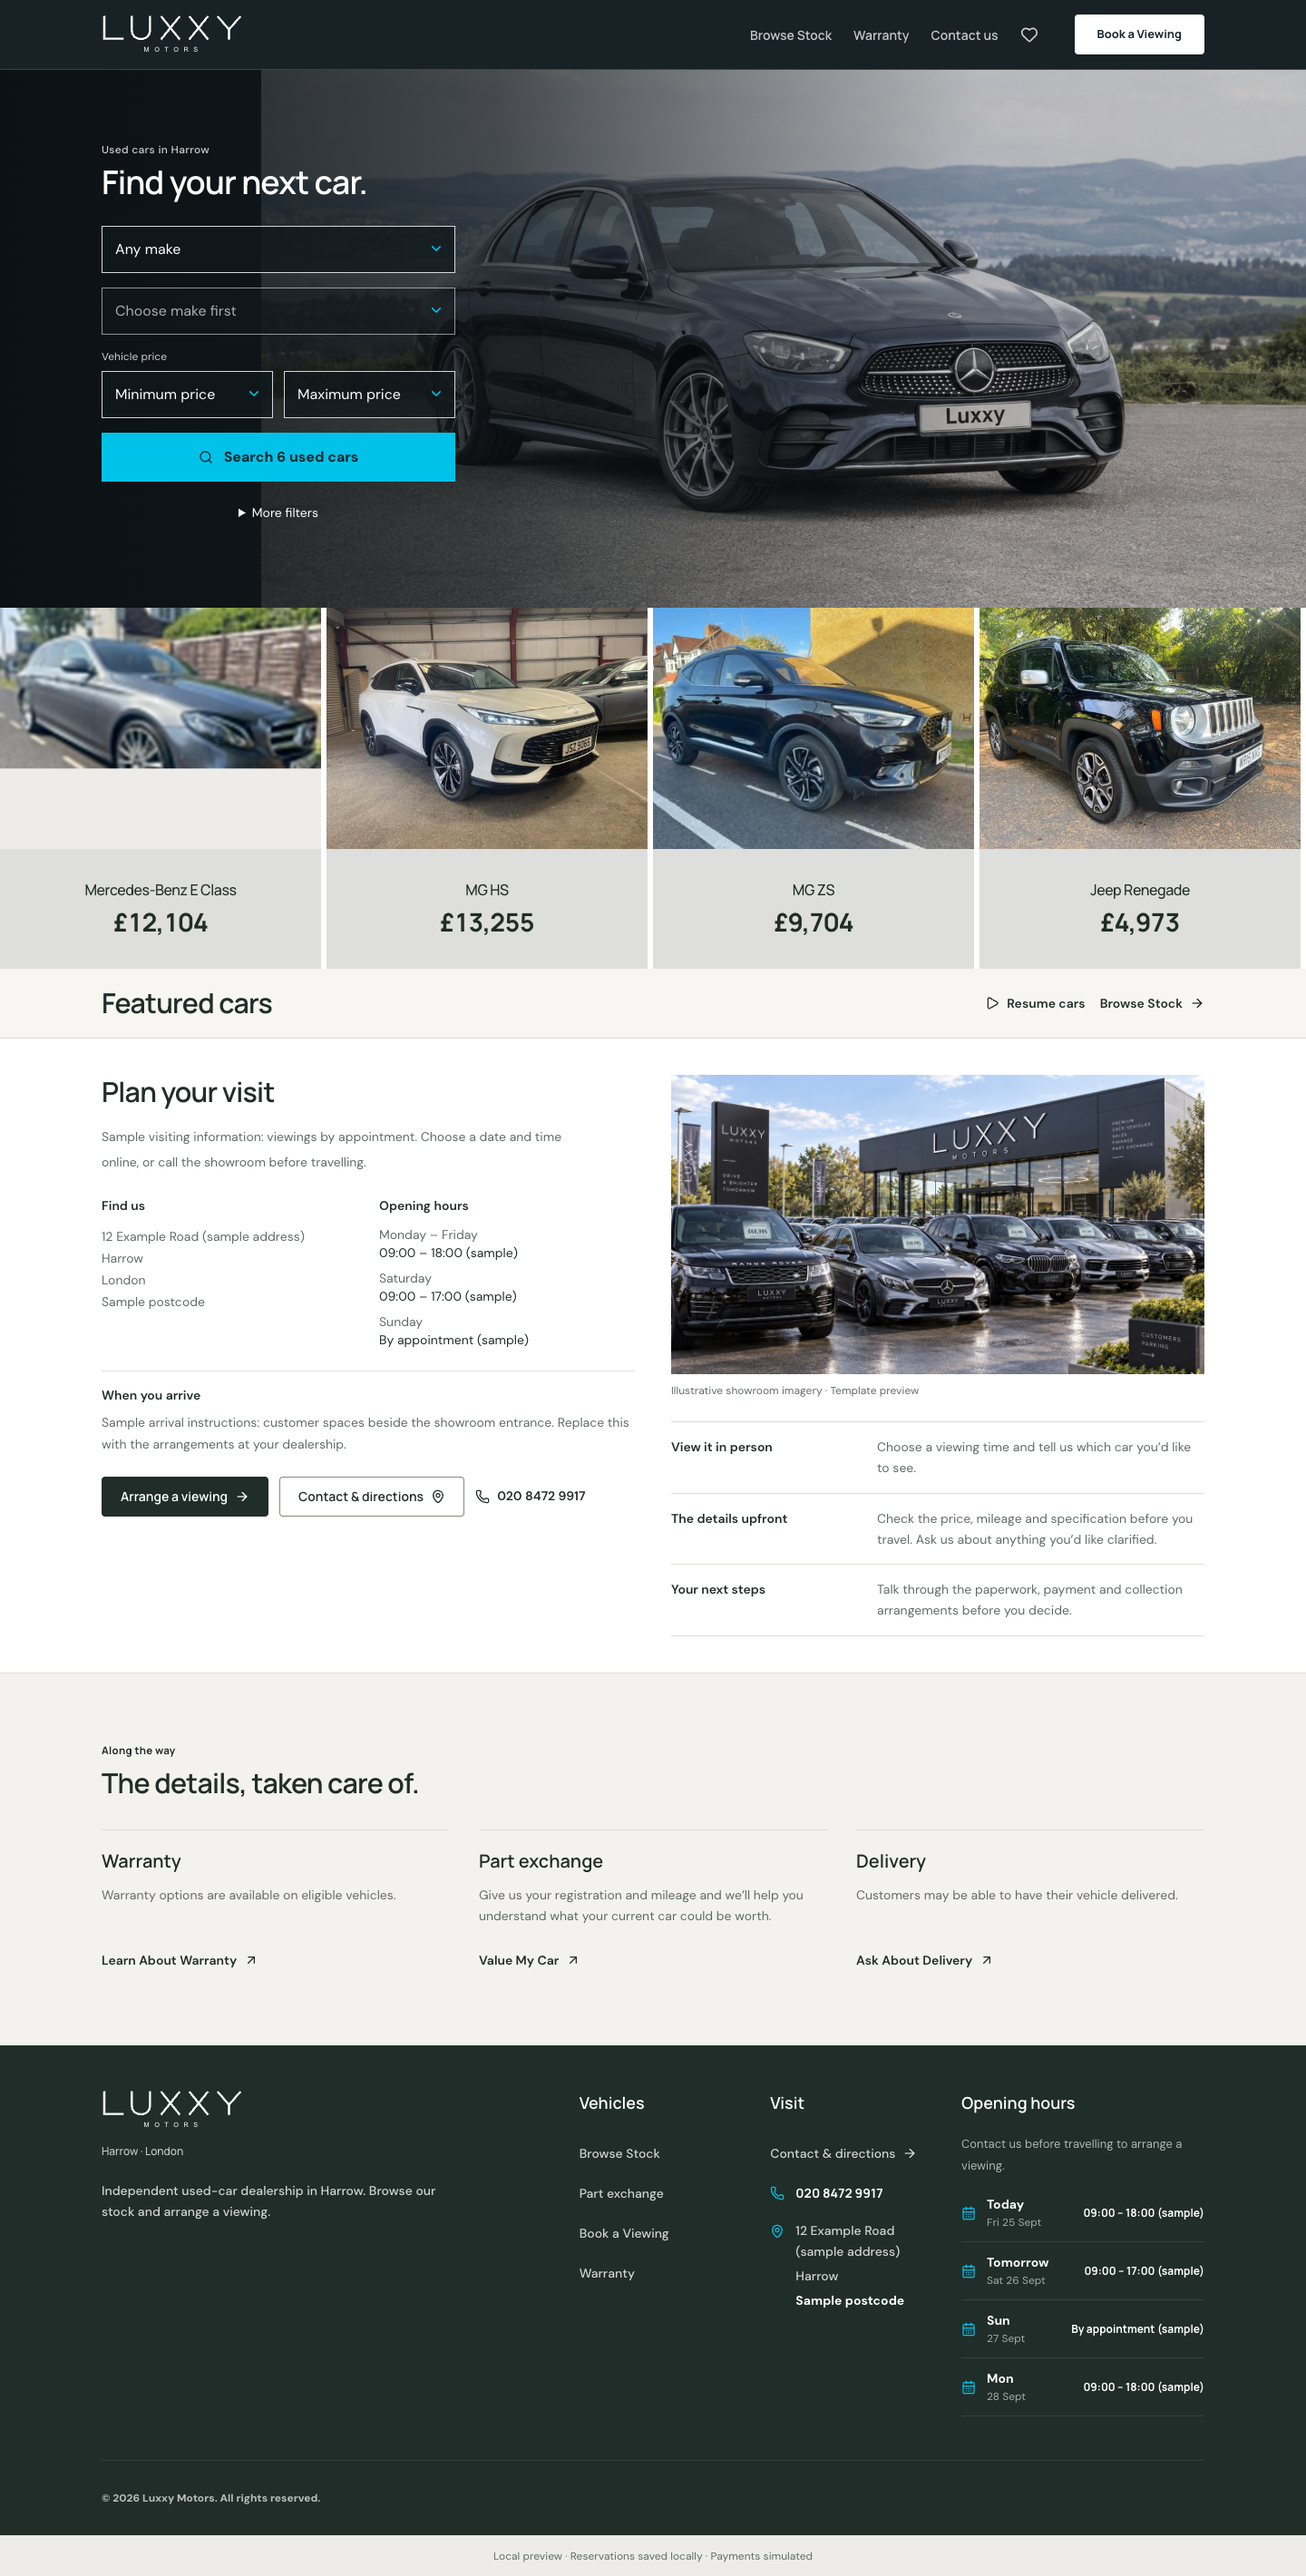
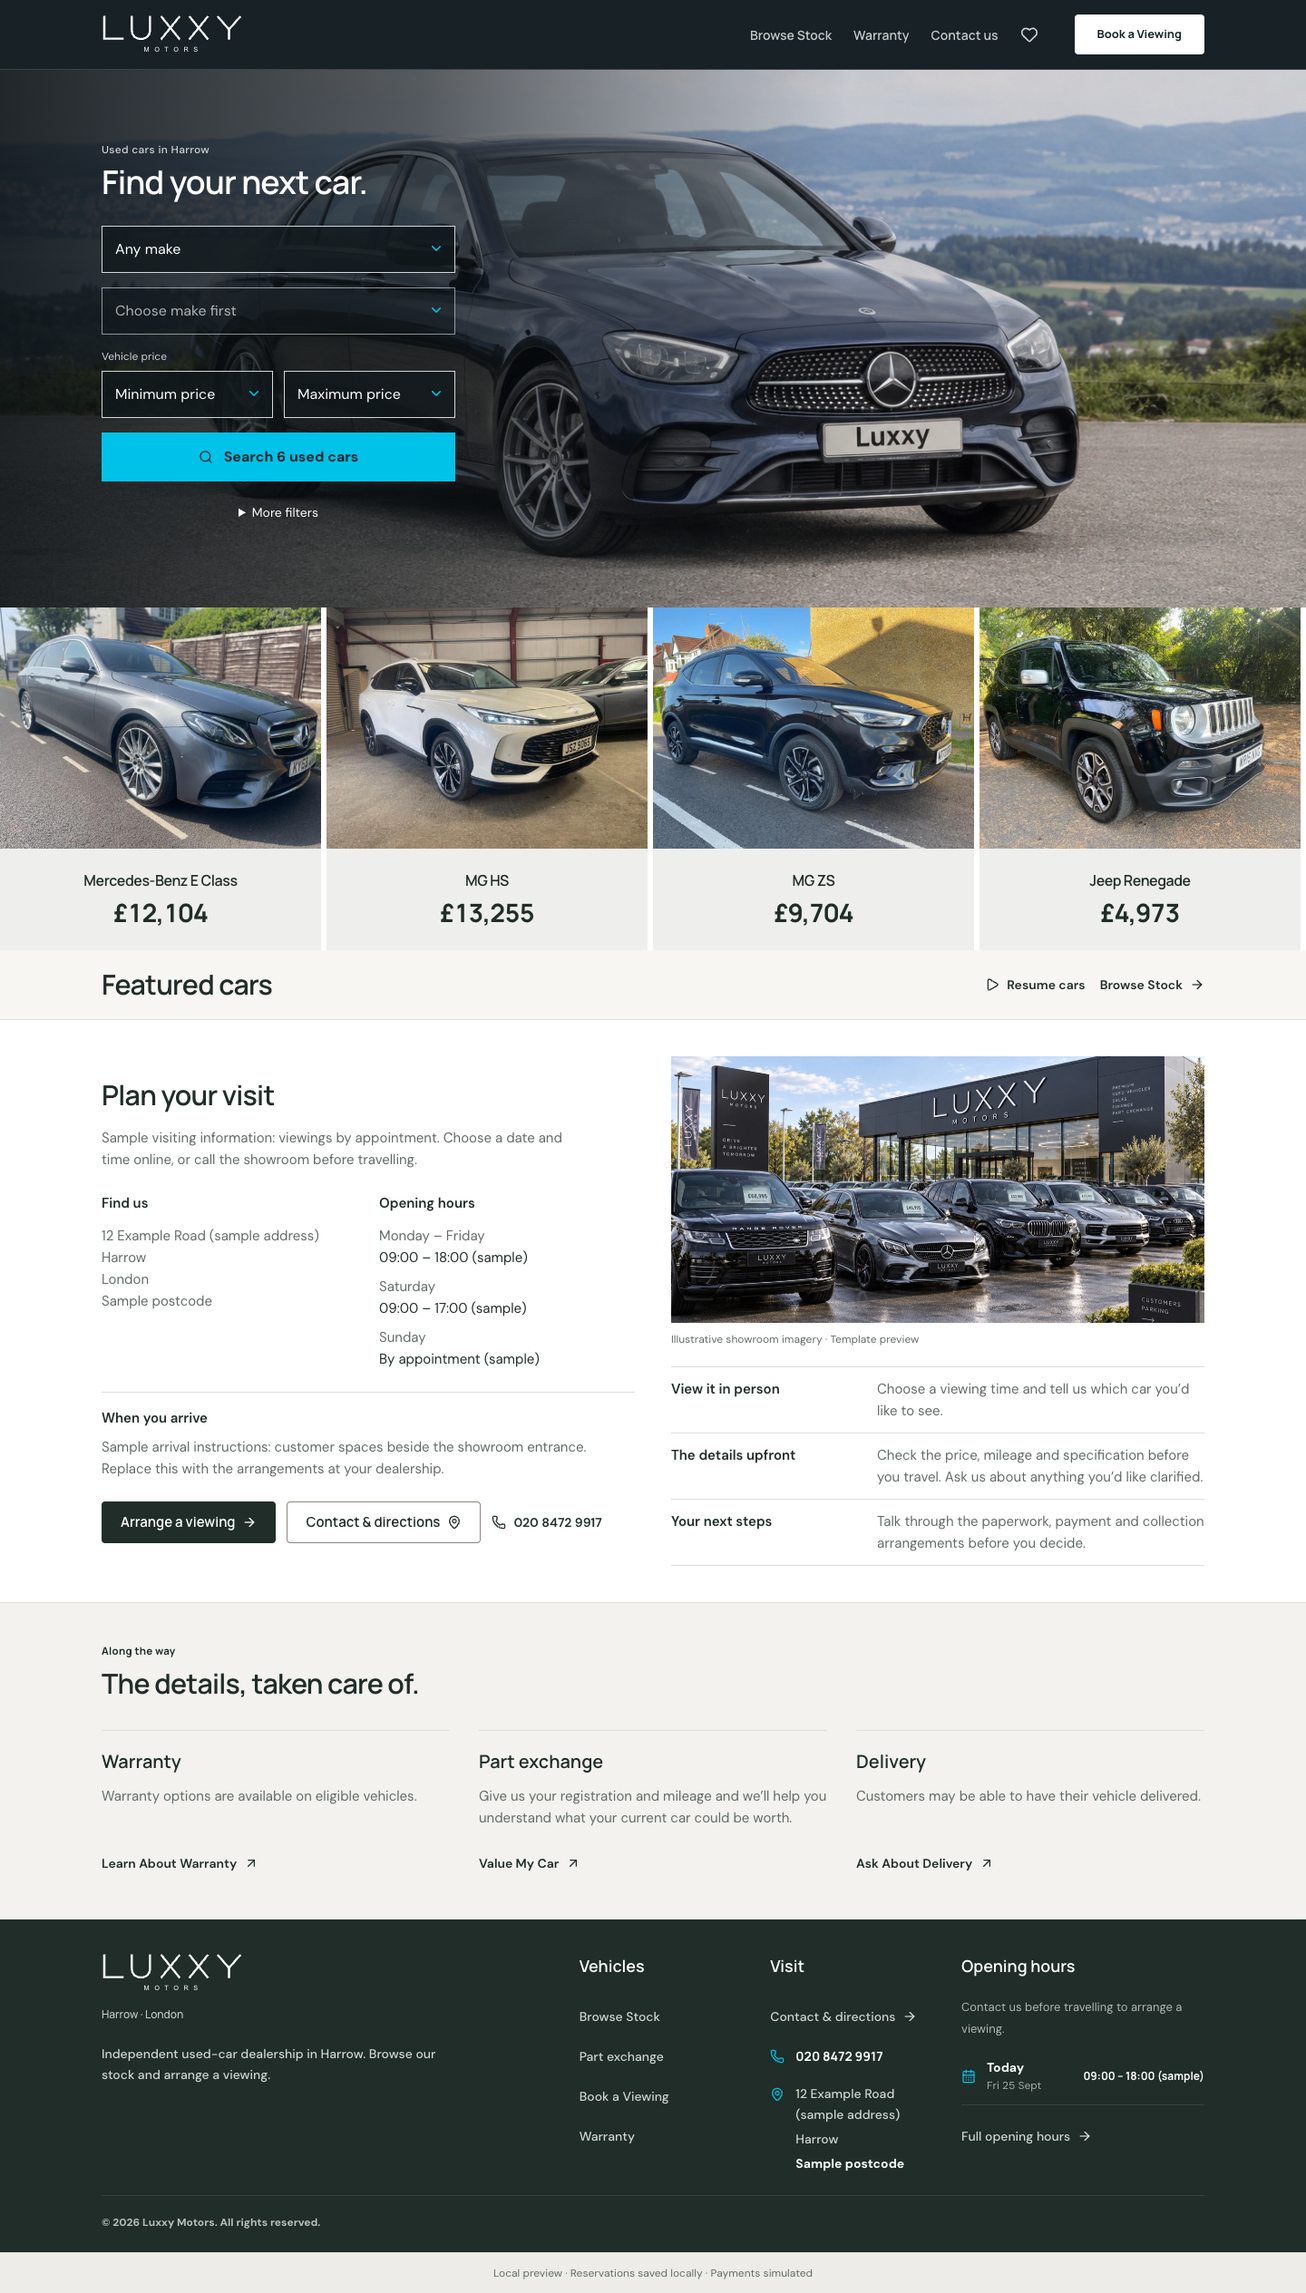
Polish homepage photography, spacing and footer

diff --git a/artifacts/luxxy-motors/src/index.css b/artifacts/luxxy-motors/src/index.css
@@ -262,9 +262,9 @@
 
 /* Photograph-led used-car search. Outright prices only. */
 .stock-search-hero { position: relative; isolation: isolate; overflow: hidden; background: #202729; padding: calc(var(--site-header-height) + 3rem) 0 3rem; min-height: 670px; display: flex; align-items: center; }
-.stock-search-backdrop { position: absolute; inset: 0 0 0 20%; z-index: -3; }
-.stock-search-backdrop img { object-position: 68% 55%; filter: saturate(.65); }
-.stock-search-shade { position: absolute; inset: 0; z-index: -2; background: linear-gradient(90deg, rgba(10,16,19,.94), rgba(10,16,19,.7) 38%, rgba(10,16,19,.15) 75%); }
+.stock-search-backdrop { position: absolute; inset: 0; z-index: -3; }
+.stock-search-backdrop img { object-position: 68% 55%; filter: saturate(.95); }
+.stock-search-shade { position: absolute; inset: 0; z-index: -2; background: linear-gradient(90deg, rgba(10,16,19,.88), rgba(10,16,19,.62) 32%, rgba(10,16,19,.06) 65%); }
 .stock-search-panel { width: 100%; max-width: 390px; }
 .hero-stock-search { display: grid; gap: 1rem; margin-top: 1.75rem; }
 .hero-search-field { display: block; position: relative; min-width: 0; }
@@ -277,13 +277,13 @@
 .hero-stock-search :is(select,button,summary):focus-visible { outline: 3px solid #52dbf5; outline-offset: 3px; }
 .hero-search-advanced summary { cursor: pointer; min-height: 44px; padding: .5rem; text-align: center; color: white; font-size: .875rem; }
 .homepage-stock .vehicle-card { border-radius: 0; border-color: transparent; background: #eee; }
-.homepage-stock .vehicle-card-heading h3 { font-size: 1rem; font-weight: 500; }
+.homepage-stock .vehicle-card-heading h3 { font-size: 1rem; font-weight: 600; }
 .homepage-stock .vehicle-card .luxxy-price { font-size: 1.75rem; }
 .homepage-stock .vehicle-card:hover { border-color: hsl(var(--primary) / .35); }
 @media (max-width: 639px) {
  .stock-search-hero { min-height: 0; padding: calc(var(--site-header-height) + 1.5rem) 0 1.5rem; }
  .stock-search-panel { max-width: none; }
- .stock-search-shade { background: rgba(10,16,19,.72); }
+ .stock-search-shade { background: linear-gradient(90deg, rgba(10,16,19,.82), rgba(10,16,19,.46)); }
  .stock-search-backdrop img { object-position: 62% center; }
 }
 
@@ -357,25 +357,25 @@
  border: 0;
  border-right: 6px solid white;
  border-radius: 0;
- background: #dededc;
+ background: #eeefed;
  box-sizing: border-box;
 }
 .rolling-stock .vehicle-card-details {
  flex: 1;
  justify-content: center;
- min-height: 132px;
- padding: 22px 16px;
- background: #dededc;
+ min-height: 112px;
+ padding: 17px 16px;
+ background: #eeefed;
  text-align: center;
 }
-.rolling-stock .vehicle-card-heading h3 { font-size: 1rem; font-weight: 500; }
+.rolling-stock .vehicle-card-heading h3 { font-size: 1rem; font-weight: 600; }
 .rolling-stock .vehicle-card-details > div:nth-child(2) { justify-content: center; margin-top: 8px; }
 .rolling-stock .luxxy-price { font-size: 1.875rem; line-height: 1.2; }
 .rolling-stock .vehicle-specs { display: none; }
 .rolling-stock .vehicle-card-actions { display: none; }
 @media (max-width: 639px) {
  .rolling-stock .vehicle-card { border-right-width: 4px; }
- .rolling-stock .vehicle-card-details { min-height: 112px; padding: 18px 14px; }
+ .rolling-stock .vehicle-card-details { min-height: 100px; padding: 14px; }
 }
 .browse-stock .vehicle-card img { object-fit: contain; background: #eeefed; }
 .browse-stock .vehicle-specs { grid-template-columns: auto auto; justify-content: start; column-gap: 1.25rem; }
@@ -415,3 +415,19 @@ body:has(.homepage-refined) footer,
 .homepage-refined .luxxy-kicker { color: hsl(var(--foreground)); }
 .homepage-refined .text-link { color: hsl(var(--foreground)); }
 .homepage-refined .text-link:hover { text-decoration: underline; text-decoration-color: #00c2e8; text-underline-offset: 5px; }
+
+/* Homepage polish: consistent photography and a shorter editorial rhythm. */
+.rolling-stock .vehicle-card [data-stock-link] img { height: 100%; width: 100%; object-fit: cover; }
+.homepage-refined #visit .text-sm { font-size: 15px; line-height: 1.6; }
+.homepage-refined .visit-story { gap: 20px; }
+.homepage-refined .visit-story > ul > li { padding-block: 12px; }
+.homepage-refined .visit-story > ul p { font-size: 15px; line-height: 1.55; }
+.homepage-refined .home-services { padding-block: 40px; }
+.homepage-refined .home-services .text-sm { font-size: 15px; }
+body:has(.homepage-refined) footer#contact { padding-top: 36px; padding-bottom: 24px; }
+body:has(.homepage-refined) footer#contact > div > div:first-child { margin-bottom: 24px; }
+body:has(.homepage-refined) footer#contact > div > div:last-child { margin-top: 24px; padding-top: 20px; }
+@media (min-width: 1024px) {
+ .homepage-refined #visit > div > div { align-items: center; }
+ .homepage-refined .visit-story > figure > div { aspect-ratio: 2 / 1; }
+}

diff --git a/artifacts/luxxy-motors/src/components/layout.tsx b/artifacts/luxxy-motors/src/components/layout.tsx
@@ -419,7 +419,7 @@ export function Layout({ children }: { children: React.ReactNode }) {
                   Contact us before travelling to arrange a viewing.
                 </p>
                 <ul className="space-y-3">
-                  {upcomingVisitDates.map((visit) => (
+                  {(location === '/' ? upcomingVisitDates.slice(0, 1) : upcomingVisitDates).map((visit) => (
                     <li key={visit.date} className="flex items-center justify-between gap-4 border-b border-primary-foreground/10 pb-3 text-[14px]">
                       <span className="flex min-w-0 items-center gap-3">
                         <CalendarDays className="h-4 w-4 shrink-0 text-accent" />
@@ -432,6 +432,7 @@ export function Layout({ children }: { children: React.ReactNode }) {
                     </li>
                   ))}
                 </ul>
+                {location === '/' && <Link href="/contact" className={`mt-3 inline-flex items-center gap-2 ${footerLinkClass}`}>Full opening hours <ArrowRight className="h-4 w-4" /></Link>}
               </div>
             )}
           </div>

diff --git a/artifacts/luxxy-motors/src/pages/home.tsx b/artifacts/luxxy-motors/src/pages/home.tsx
@@ -532,7 +532,7 @@ export default function Home({ browseStock = false }: { browseStock?: boolean })
 
       <DealershipVisit>{dealershipPoints}</DealershipVisit>
 
-      <section className="section-space border-t border-border bg-secondary/40">
+      <section className="home-services section-space border-t border-border bg-secondary/40">
         <div className="container mx-auto px-4 sm:px-6 lg:px-8">
           <p className="luxxy-kicker mb-3">Along the way</p>
           <h2 className="section-heading">The details, taken care of.</h2>

diff --git a/artifacts/luxxy-motors/src/components/dealership-visit.tsx b/artifacts/luxxy-motors/src/components/dealership-visit.tsx
@@ -109,7 +109,7 @@ export function DealershipVisit({ children }: { children?: React.ReactNode }) {
             </div>
           </div>
           {(hasStory || visitPhoto || children) && (
-            <div className={hasStory || visitPhoto || children ? "space-y-6" : "grid gap-6 sm:grid-cols-2"}>
+            <div className="visit-story grid gap-5">
               {visitPhoto && <DealershipPhotograph photo={visitPhoto} />}
               {children}
               {hasTeam && (

diff --git a/docs/ui-redesign.md b/docs/ui-redesign.md
@@ -672,3 +672,14 @@ Added a 320ms crossfade with a subtle 2.5% settling zoom to the main and fullscr
 - Hid incomplete team introductions unless both an image and non-placeholder introduction exist. Sample visiting details remain clearly labelled.
 - Updated the About navigation focus target to the merged visit heading.
 - Validation: 172 frontend tests passed; workspace typechecking and builds passed (existing bundle-size advisory remains). Four local Playwright checks passed, covering desktop/mobile search, navigation, carousel/reduced motion and full-card interaction. Full-page desktop/mobile screenshots reviewed.
+
+
+## Homepage visual polish — 25 September 2026
+- Extended the hero photograph across the full width, replacing the visible dark seam with localised shading and restoring more colour/detail to the vehicle.
+- Enforced full-height, cover-fit featured photographs; reviewed the first vehicle for the previously observed blank band.
+- Lightened and shortened individual price panels, with stronger model names and retained bold prices.
+- Balanced the visit columns using a shallower desktop photograph, tighter information rows and vertically centred content.
+- Increased visit and service body text to 15px.
+- Reduced service-section spacing while preserving aligned actions.
+- Shortened the homepage footer to today's opening information and a Full opening hours link; other pages retain their upcoming-day list.
+- Verification: 172 frontend tests and four desktop/mobile Playwright checks passed. Workspace typechecking and builds passed; the existing bundle-size advisory remains. Fresh full-page desktop/mobile screenshots inspected and saved in docs/screenshots/homepage-refinement.
